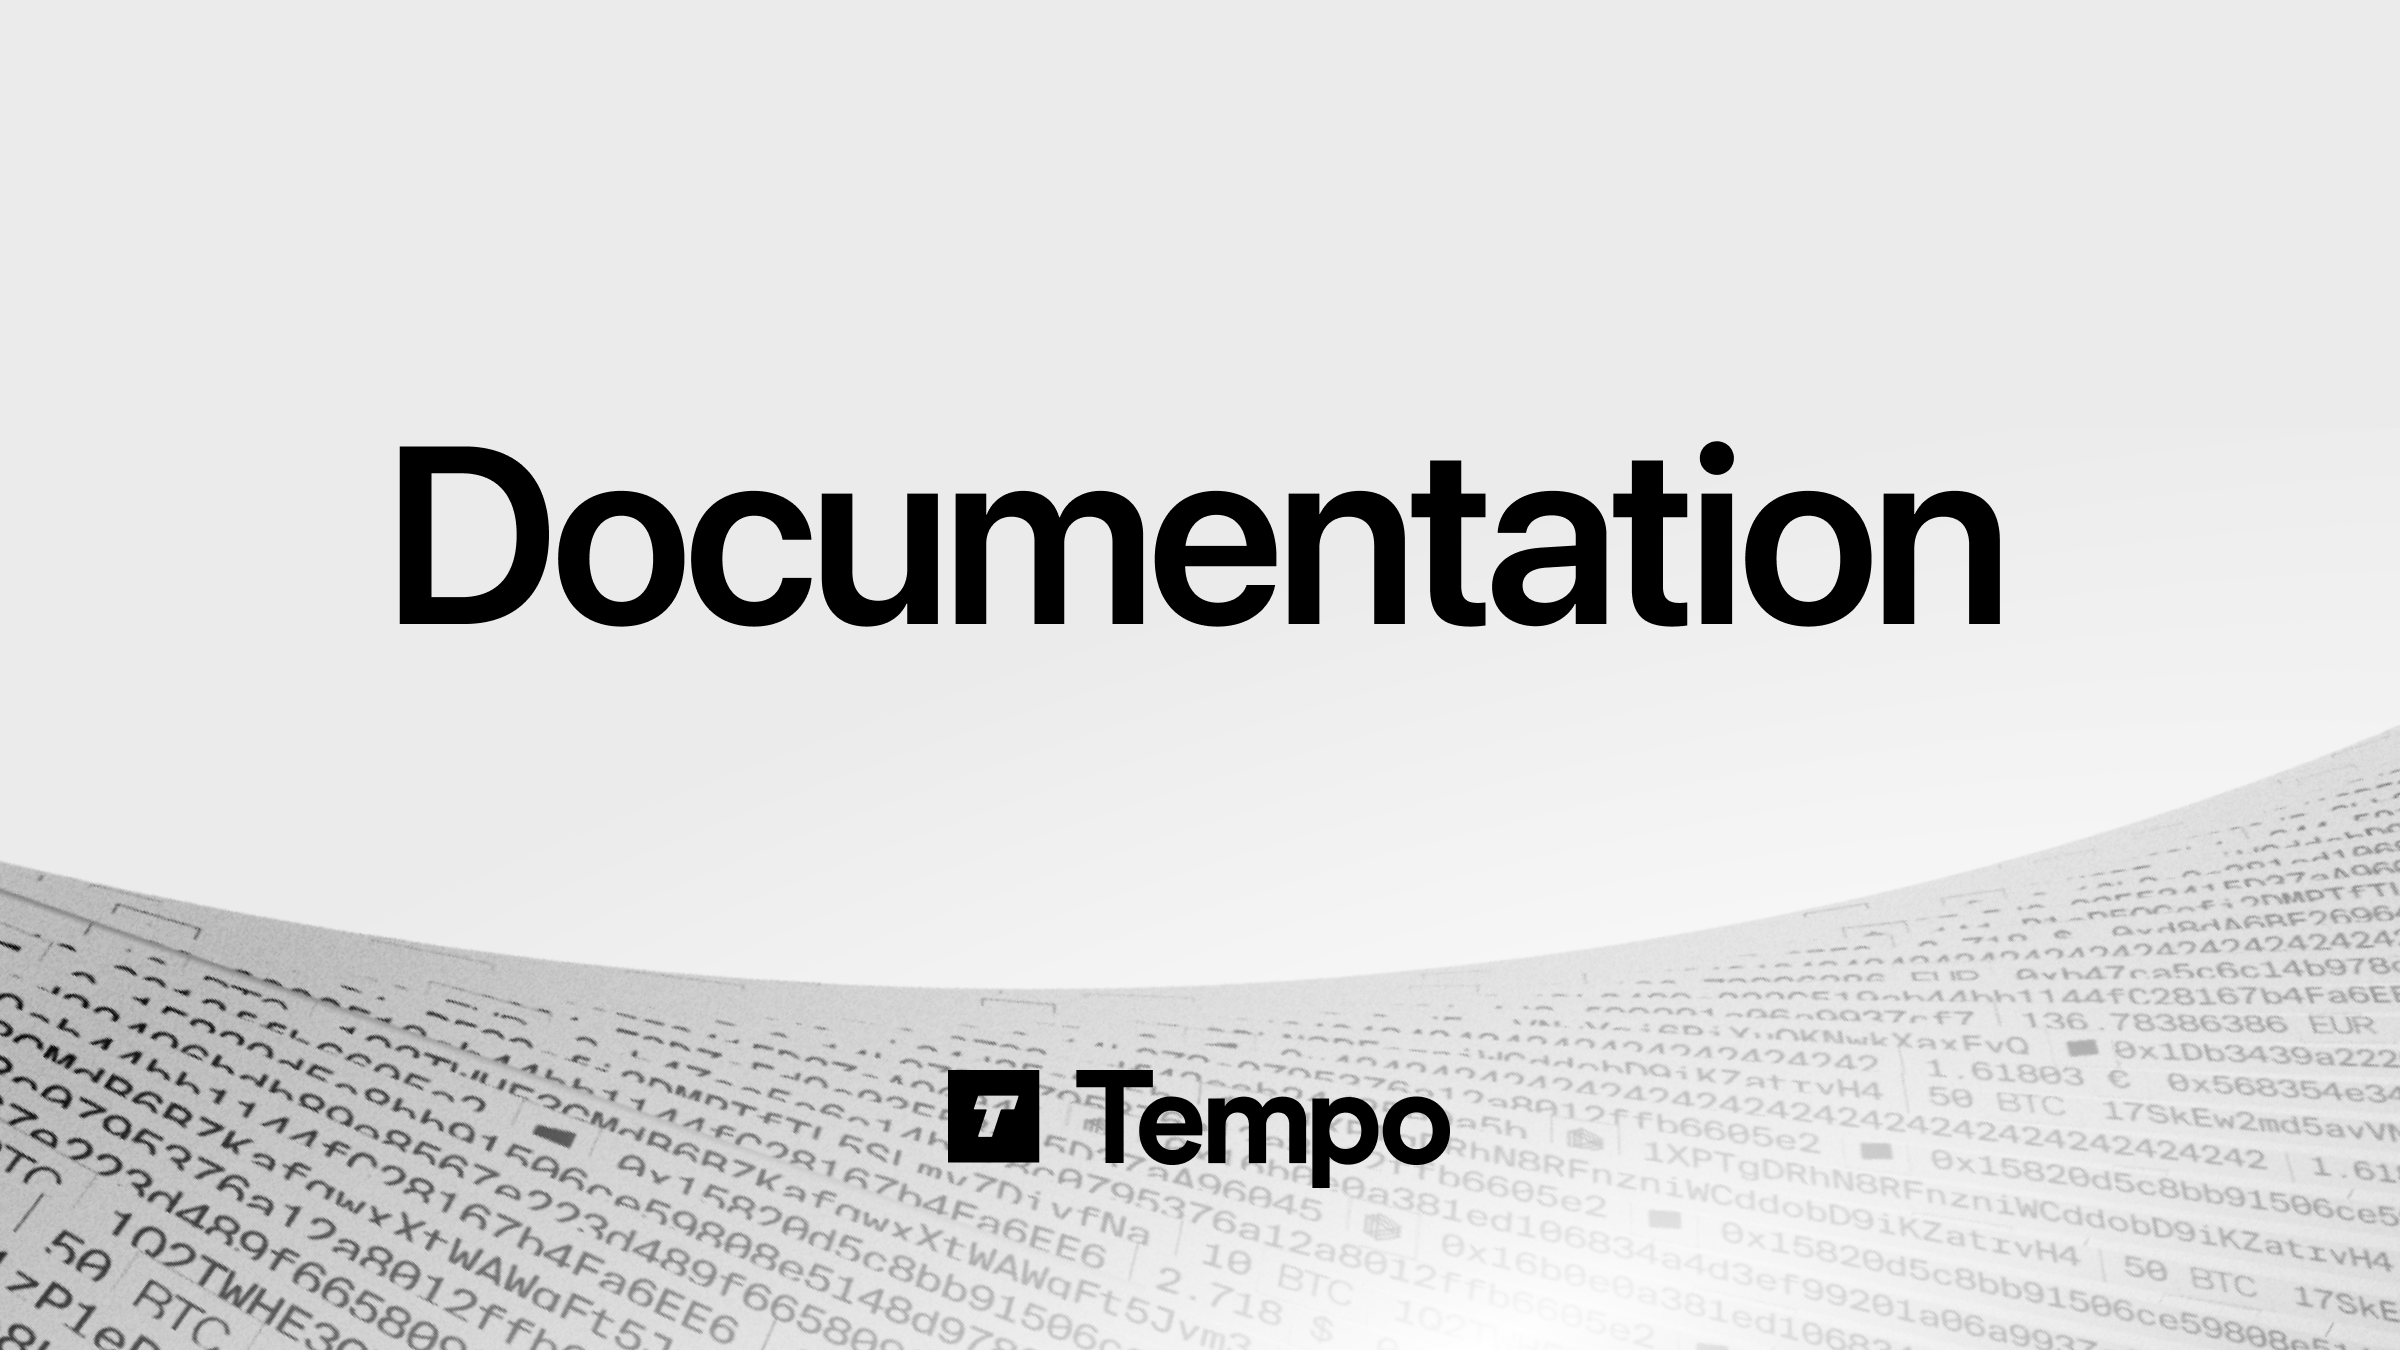
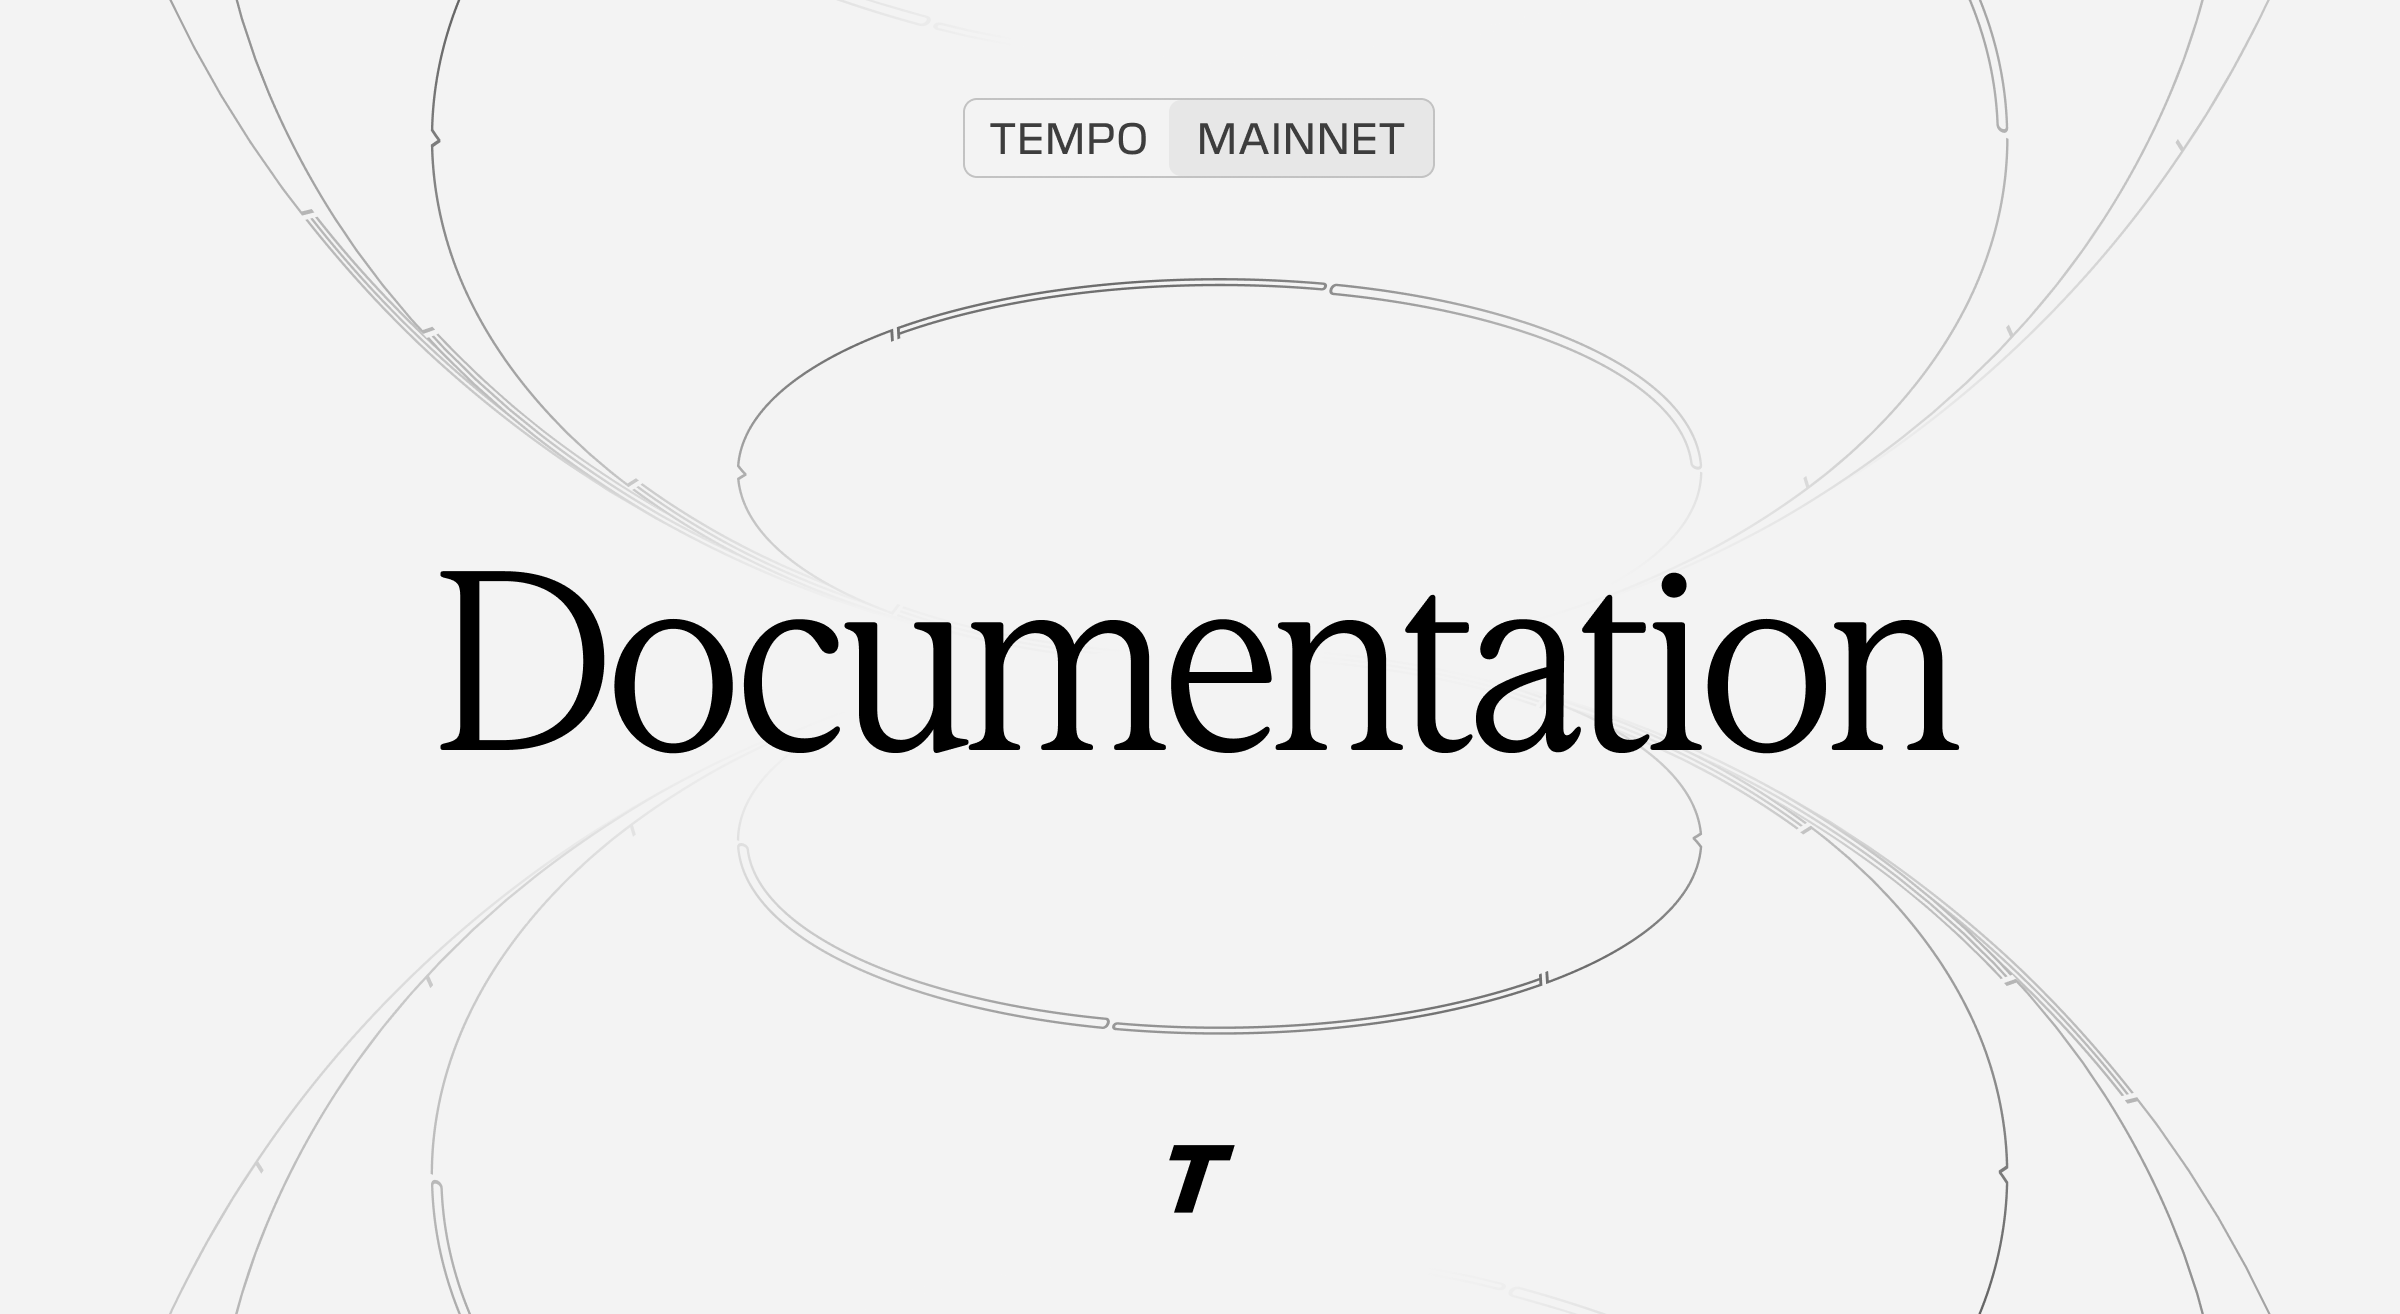
feat: update OG images with new branding
- Replace default docs OG image (public/og-docs.png) with new design
- Update dynamic OG image logo to new TEMPO wordmark

diff --git a/src/pages/_api/api/og.tsx b/src/pages/_api/api/og.tsx
@@ -29,34 +29,28 @@ export default function handler(request: Request) {
         <svg
           width="296"
           height="70"
-          viewBox="0 0 148 35"
+          viewBox="500 400 920 300"
           fill="none"
           xmlns="http://www.w3.org/2000/svg"
         >
           <path
-            d="M138 23.4762C140.519 23.4762 142.845 21.6458 142.845 18.025C142.845 14.4043 140.519 12.5737 138 12.5737C135.481 12.5737 133.155 14.4043 133.155 18.025C133.155 21.6458 135.481 23.4762 138 23.4762ZM138 7.8645C143.697 7.8645 148 12.1083 148 18.025C148 23.9417 143.699 28.1855 138 28.1855C132.301 28.1855 128 23.9032 128 18.025C128 12.1468 132.301 7.8645 138 7.8645Z"
+            d="M576.59,636.9h-53.04l49.16-150.06h-62.87l13.71-43.98h175.16l-13.71,43.98h-59.51l-48.9,150.06Z"
             fill="white"
           />
           <path
-            d="M112.212 35H107.057V8.449H112.057V10.7852C112.911 9.3065 115.042 8.02025 117.909 8.02025C123.491 8.02025 126.707 12.3025 126.707 17.9865C126.707 23.6705 123.103 28.07 117.716 28.07C115.08 28.07 113.143 27.0182 112.212 25.7337V35ZM121.631 18.025C121.631 14.6388 119.538 12.6525 116.902 12.6525C114.267 12.6525 112.136 14.6388 112.136 18.025C112.136 21.4113 114.268 23.436 116.902 23.436C119.537 23.436 121.631 21.4498 121.631 18.025Z"
+            d="M773.97,636.9h-125.74l63.13-194.05h125.23l-11.9,37h-72.7l-13.2,41.66h70.38l-11.9,36.48h-70.63l-13.2,41.91h72.19l-11.64,37Z"
             fill="white"
           />
           <path
-            d="M81.2421 27.6045H76.087V8.449H81.0086V10.7852C82.0557 8.91625 84.4964 7.90475 86.5905 7.90475C89.1881 7.90475 91.2804 9.0335 92.2491 11.0968C93.7613 8.7605 95.7752 7.90475 98.2944 7.90475C101.821 7.90475 105.193 10.0467 105.193 15.1847V27.6045H100.193V16.2365C100.193 14.1732 99.1864 12.6157 96.8205 12.6157C94.6114 12.6157 93.2943 14.329 93.2943 16.3923V27.6045H88.1776V16.2365C88.1776 14.1732 87.1306 12.6157 84.8065 12.6157C82.4825 12.6157 81.2421 14.2905 81.2421 16.3923V27.6045Z"
+            d="M830.88,636.9h-42.17l63.39-194.05h70.38l-2.33,104.79,68.56-104.79h77.1l-63.13,194.05h-52.78l41.91-130.4h-.78l-86.16,130.4h-31.31l1.29-131.95h-.52l-43.47,131.95Z"
             fill="white"
           />
           <path
-            d="M60.749 15.8463H69.2752C69.1985 13.9388 67.9581 12.0697 65.0121 12.0697C62.3379 12.0697 60.8657 14.0945 60.749 15.8463ZM69.7804 20.8285L74.0818 22.113C73.1131 25.4222 70.0905 28.1855 65.4006 28.1855C60.1689 28.1855 55.5556 24.409 55.5556 17.9462C55.5556 11.8335 60.0522 7.86275 64.9354 7.86275C70.8257 7.86275 74.3536 11.6393 74.3536 17.7905C74.3536 18.5308 74.2752 19.3095 74.2752 19.3865H60.6323C60.749 21.917 62.8797 23.7475 65.4389 23.7475C67.8414 23.7475 69.1602 22.54 69.7804 20.8285Z"
+            d="M1125.18,478.81l-20.44,62.61h5.69c12.94,0,23.72-3.02,32.34-9.06,8.62-6.21,14.23-15.01,16.82-26.39,2.24-9.83,1.04-16.82-3.62-20.96-4.66-4.14-12.42-6.21-23.29-6.21h-7.5ZM1073.95,636.9h-53.04l63.13-194.05h64.42c14.83,0,27.6,2.41,38.29,7.24,10.87,4.66,18.8,11.38,23.8,20.18,5.17,8.62,6.9,18.71,5.17,30.27-2.24,15.18-8.11,28.55-17.59,40.1-9.49,11.56-21.82,20.53-37,26.91-15.01,6.21-31.82,9.31-50.45,9.31h-17.34l-19.4,60.03Z"
             fill="white"
           />
           <path
-            d="M59.6096 5.0995H50.9285V27.6027H45.5417V5.0995H36.8587V0H59.6096V5.0995Z"
-            fill="white"
-          />
-          <path
-            fillRule="evenodd"
-            clipRule="evenodd"
-            d="M27.5078 27.6316H0V2.91501e-05H27.5078V27.6316ZM9.37224 7.66782C9.20536 7.66782 9.0573 7.77519 9.00466 7.93421L7.82254 11.497C7.77848 11.6298 7.87683 11.7667 8.01595 11.7667H11.4486C11.5877 11.7667 11.6861 11.9036 11.642 12.0364L9.10092 19.6941C9.05686 19.8269 9.1552 19.9638 9.29434 19.9638H12.9755C13.1424 19.9638 13.2904 19.8564 13.3431 19.6974L15.8867 12.0328C15.9393 11.8738 16.0874 11.7664 16.2543 11.7664H19.6942C19.8611 11.7664 20.0093 11.659 20.062 11.5L21.2439 7.93751C21.288 7.80472 21.1897 7.66782 21.0505 7.66782H9.37224Z"
+            d="M1342.16,624.48c-17.59,10.35-36.31,15.52-56.15,15.52h-.52c-17.59,0-32.43-3.88-44.5-11.64-11.9-7.93-20.44-18.63-25.61-32.08-5-13.45-6.21-28.2-3.62-44.24,3.28-20.18,10.78-38.81,22.51-55.89,11.73-17.08,26.39-30.7,43.98-40.88,17.59-10.18,36.4-15.27,56.4-15.27h.52c18.28,0,33.38,3.88,45.28,11.64,12.07,7.76,20.44,18.37,25.1,31.82,4.83,13.28,5.86,28.2,3.1,44.76-3.28,19.49-10.78,37.86-22.51,55.11-11.73,17.08-26.39,30.79-43.98,41.14ZM1268.94,591.1c4.66,8.8,12.76,13.19,24.32,13.19h.52c9.49,0,18.28-3.54,26.39-10.61,8.28-7.24,15.27-16.9,20.96-28.98,5.86-12.07,10.18-25.53,12.94-40.36,2.59-14.49,1.55-26.13-3.1-34.93-4.66-8.97-12.68-13.45-24.06-13.45h-.52c-8.8,0-17.34,3.62-25.61,10.87-8.11,7.24-15.18,16.99-21.22,29.24-6.04,12.25-10.44,25.53-13.2,39.84-2.76,14.49-1.9,26.22,2.59,35.19Z"
             fill="white"
           />
         </svg>
